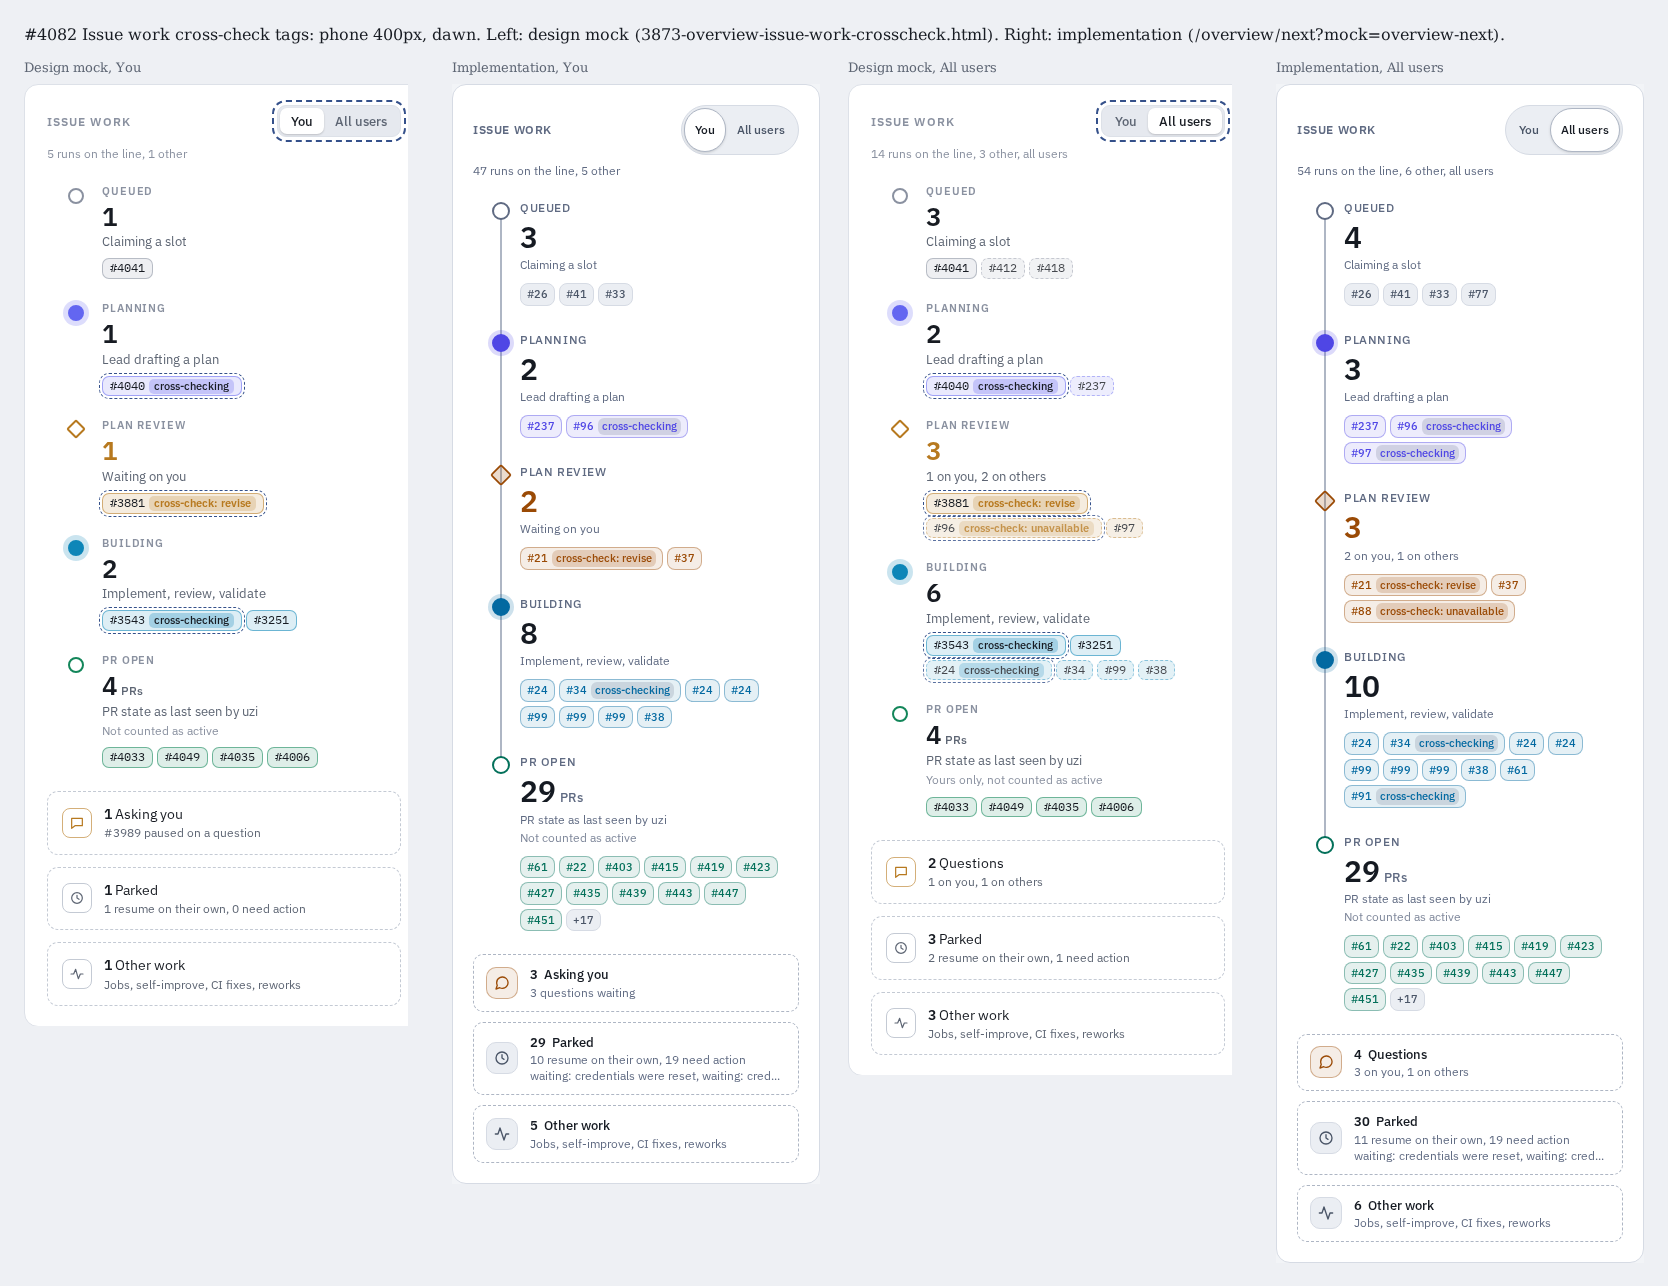
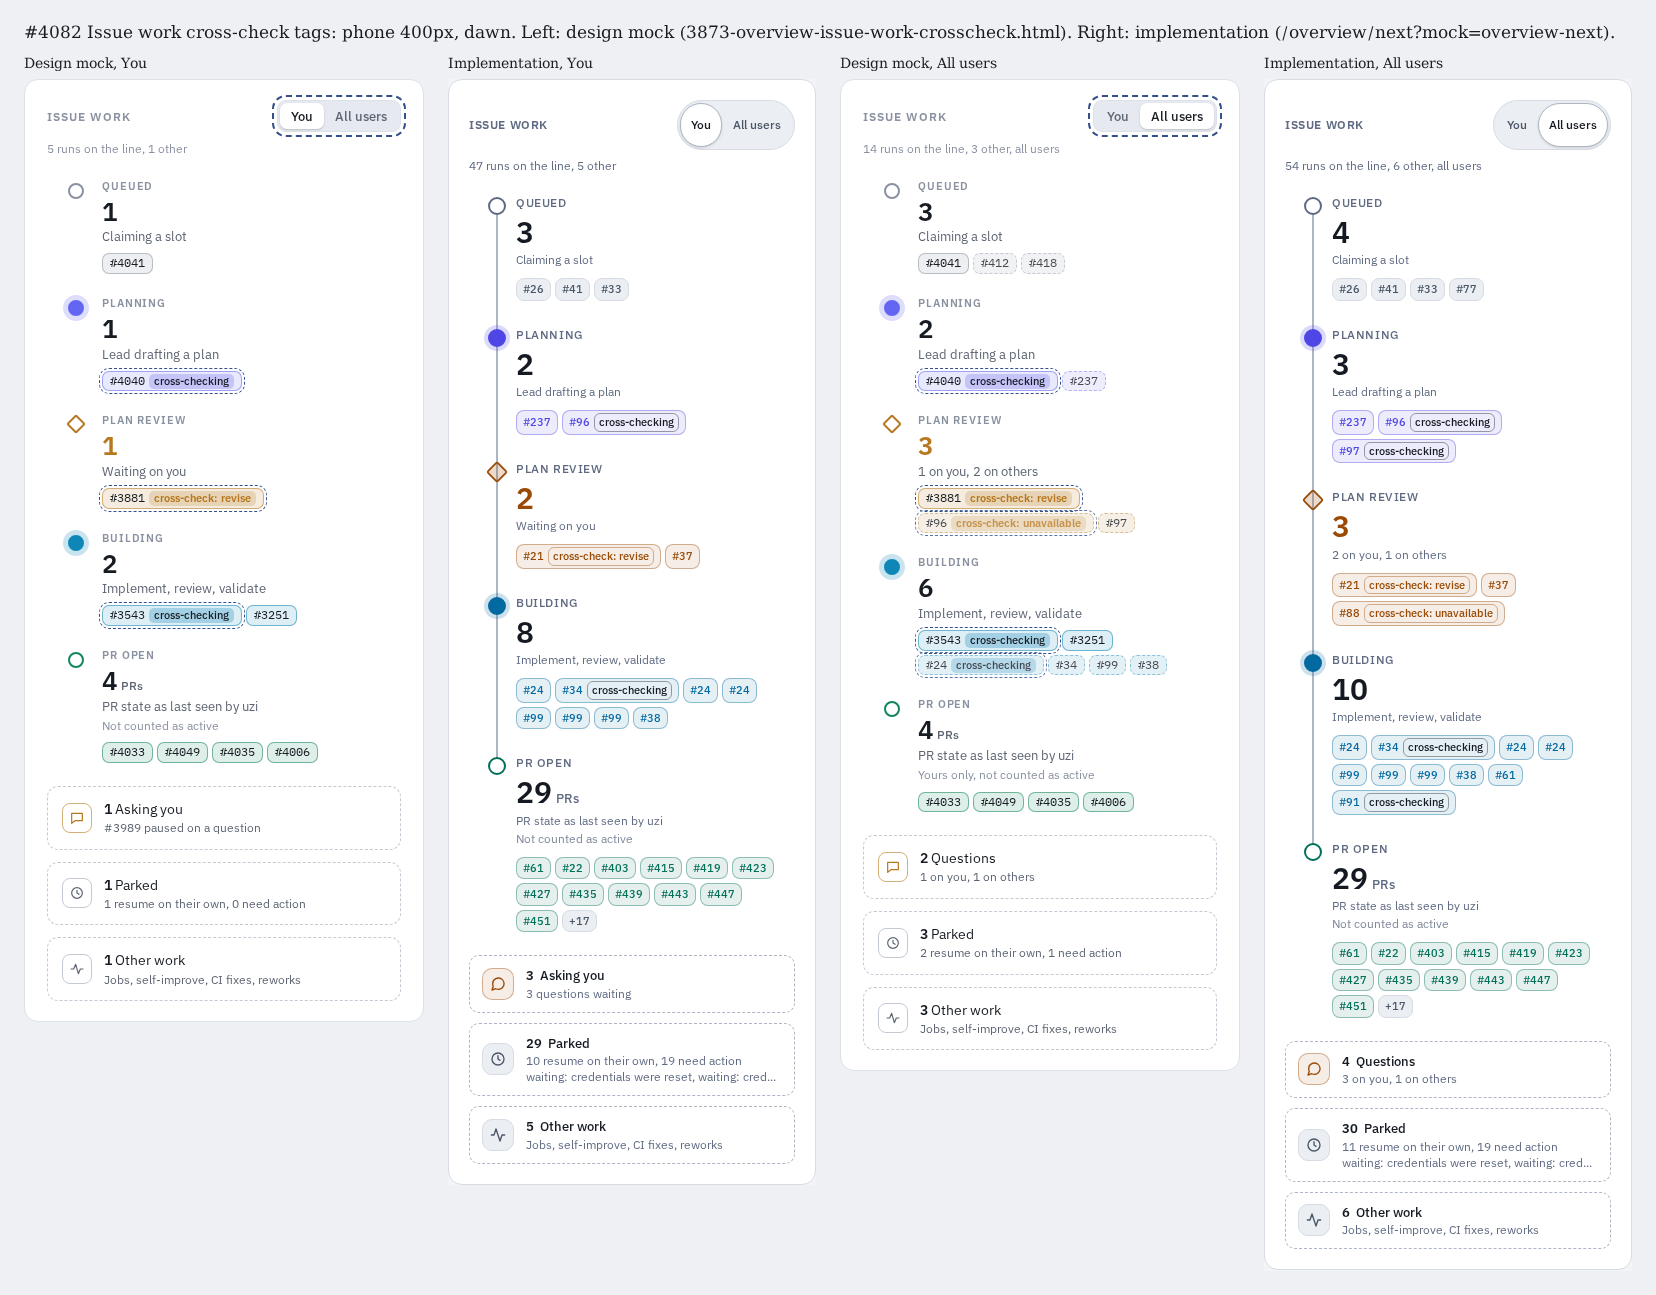
Issue work chip: outline cross-check tags to meet AA contrast; keep the tag on one line (#4082)

diff --git a/web/src/pages/OverviewNext.browser.test.tsx b/web/src/pages/OverviewNext.browser.test.tsx
@@ -506,6 +506,7 @@ describe("OverviewNext issue work cross-check tags", () => {
       runs: [
         aRun({ id: "x-plan", status: "running", is_planning: true, issue_iid: 97, cross_check_active: "plan", owner_email: OTHER }),
         aRun({ id: "x-review", status: "awaiting_approval", issue_iid: 88, plan_cross_check_required: true, plan_cross_check_gate_reason: "worker_unsupported", owner_email: OTHER }),
+        aRun({ id: "x-blocked", status: "awaiting_approval", issue_iid: 77, plan_cross_check_required: true, plan_cross_check_gate_reason: "block", owner_email: OTHER }),
         aRun({ id: "x-build", status: "running", issue_iid: 91, cross_check_active: "code", owner_email: OTHER }),
       ],
     });
@@ -590,6 +591,7 @@ describe("OverviewNext issue work cross-check tags", () => {
       expect(tagOf(allBuilding.get("#91"))).toBe("cross-checking");
       expect(tagOf(allPlanning.get("#4040")), "yours keep theirs").toBe("cross-checking");
       expect(tagOf(allReview.get("#3881"))).toBe("cross-check: revise");
+      expect(tagOf(allReview.get("#77"))).toBe("cross-check: blocked");
       expect(allReview.get("#88")!.title).toMatch(/ · Unavailable/);
       expect(allReview.get("#88")!.title.startsWith("Unavailable")).toBe(false);
       expectTagsInsideChips(card);
@@ -601,6 +603,77 @@ describe("OverviewNext issue work cross-check tags", () => {
         }
       }
       expect(document.documentElement.scrollWidth, "document stays inside the viewport").toBeLessThanOrEqual(window.innerWidth);
+    });
+  }
+
+  // The tag is 11px text, so it needs WCAG AA's 4.5:1 against what is actually painted under
+  // it: the page, the card, the station (raised when pressed) and the chip's own tint, stacked.
+  // The canvas does the compositing, so any CSS colour form (oklab, color-mix) resolves.
+  const canvas = document.createElement("canvas");
+  canvas.width = canvas.height = 1;
+  const ctx = canvas.getContext("2d", { willReadFrequently: true })!;
+  function paint(color: string, under: number[]): number[] {
+    ctx.globalCompositeOperation = "copy";
+    ctx.fillStyle = `rgb(${under.join(",")})`;
+    ctx.fillRect(0, 0, 1, 1);
+    ctx.globalCompositeOperation = "source-over";
+    ctx.fillStyle = "transparent";
+    ctx.fillStyle = color;
+    ctx.fillRect(0, 0, 1, 1);
+    return Array.from(ctx.getImageData(0, 0, 1, 1).data.slice(0, 3));
+  }
+  function backdrop(el: HTMLElement): number[] {
+    const chain: Element[] = [];
+    for (let n: Element | null = el; n; n = n.parentElement) chain.unshift(n);
+    return chain.reduce((under, n) => paint(getComputedStyle(n).backgroundColor, under), [255, 255, 255]);
+  }
+  const luminance = (rgb: number[]) => {
+    const [r, g, b] = rgb.map((v) => {
+      const c = v / 255;
+      return c <= 0.04045 ? c / 12.92 : ((c + 0.055) / 1.055) ** 2.4;
+    });
+    return 0.2126 * r + 0.7152 * g + 0.0722 * b;
+  };
+  function tagContrast(chip: HTMLElement | undefined): number {
+    const tag = chip!.querySelector("span") as HTMLElement;
+    const bg = backdrop(tag);
+    const fg = paint(getComputedStyle(tag).color, bg);
+    const [hi, lo] = [luminance(fg), luminance(bg)].sort((a, b) => b - a);
+    return (hi + 0.05) / (lo + 0.05);
+  }
+
+  for (const theme of ["ember", "dawn"]) {
+    it(`keeps every tag at AA contrast on its chip in ${theme}, with a station pressed too`, async () => {
+      document.documentElement.dataset.theme = theme;
+      try {
+        await page.viewport(1280, 900);
+        mountCrossCheckLine();
+        const { card, toggle } = await ready();
+        await userEvent.click(within(toggle).getByRole("button", { name: "All users" }));
+        const cases: [string, string][] = [
+          ["planning", "#4040"],
+          ["building", "#3543"],
+          ["review", "#3881"],
+          ["review", "#88"],
+          ["review", "#77"],
+        ];
+        for (const [stage, ref] of cases) {
+          const chip = chips(card, stage).get(ref);
+          expect(tagOf(chip), `${ref} carries a tag`).not.toBeNull();
+          expect.soft(tagContrast(chip), `${theme} ${stage} ${ref}`).toBeGreaterThanOrEqual(4.5);
+        }
+        // Pressing a station raises its fill under the chips; the tags must hold there too.
+        for (const stage of ["planning", "building", "review"]) {
+          const station = card.querySelector(`[data-stage="${stage}"]`) as HTMLElement;
+          await userEvent.click(station);
+          expect(station.getAttribute("aria-pressed")).toBe("true");
+          for (const [s, ref] of cases.filter(([s]) => s === stage)) {
+            expect.soft(tagContrast(chips(card, s).get(ref)), `${theme} ${s} ${ref} pressed`).toBeGreaterThanOrEqual(4.5);
+          }
+        }
+      } finally {
+        delete document.documentElement.dataset.theme;
+      }
     });
   }
 });

diff --git a/web/src/components/IssueLine.tsx b/web/src/components/IssueLine.tsx
@@ -57,11 +57,13 @@ const STATIONS: Station[] = [
   { stage: "pr", label: "PR open", tone: "ok", flows: false },
 ];
 
-// The inner pill of a cross-check tag, after the chip's own tone.
+// The inner pill of a cross-check tag. An outline only: a fill would stack on the chip's own
+// tint and pull 11px coloured text under AA 4.5:1 (#4082 review), so the tone lives in the
+// text and its border alone. A plain check reads in the foreground colour, as the mock's .why.chk.
 const TAG_CLASSES: Record<CrossCheckTag["tone"], string> = {
-  check: "bg-faint/20",
-  warn: "bg-warn/20 text-warn",
-  danger: "bg-danger/20 text-danger",
+  check: "text-fg",
+  warn: "text-warn",
+  danger: "text-danger",
 };
 
 function RunBadges({
@@ -90,7 +92,7 @@ function RunBadges({
             {tag && (
               <>
                 {/* A real space, so the chip reads "#N cross-checking" to assistive tech and copy. */}{" "}
-                <span className={`rounded px-1 ${TAG_CLASSES[tag.tone]}`}>{stripUnsafeChars(tag.text)}</span>
+                <span className={`whitespace-nowrap rounded border border-current/40 px-1 ${TAG_CLASSES[tag.tone]}`}>{stripUnsafeChars(tag.text)}</span>
               </>
             )}
           </Badge>

diff --git a/web/src/mocks/mockApi/runs.ts b/web/src/mocks/mockApi/runs.ts
@@ -339,7 +339,7 @@ function mockListRuns(params?: {
   const items = listRunsFor()
     // Chat conversations ride runs but have their own page (PRD #39), and judge
     // is a repo-less meta-run — both are excluded here exactly as the real
-    // ListRunsForUser excludes them (`kind NOT IN ('chat','judge')`, PRD #239 D4).
+    // ListRunsForUser excludes them (`kind NOT IN ('chat', 'judge', 'cross_check')`, PRD #239 D4).
     .filter((r) => r.kind !== "chat" && r.kind !== "judge" && r.kind !== "cross_check")
     // Caller-scoped, like the real ListRunsForUser: other demo users' runs
     // (mockOtherRunOwners) belong to the admin all-users list only.
